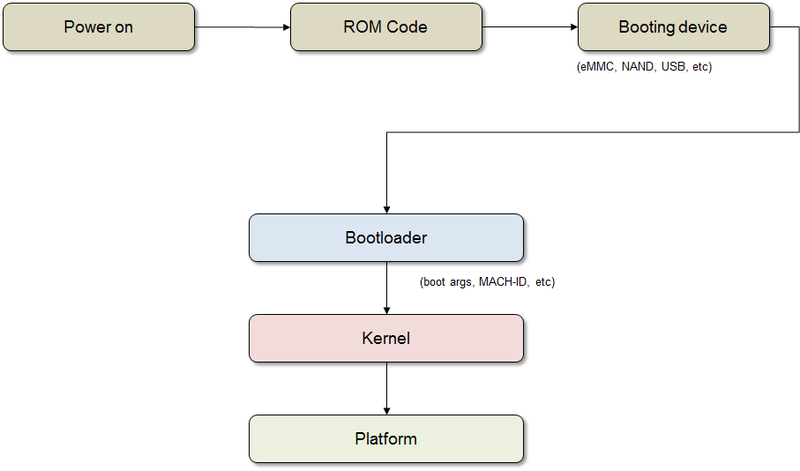
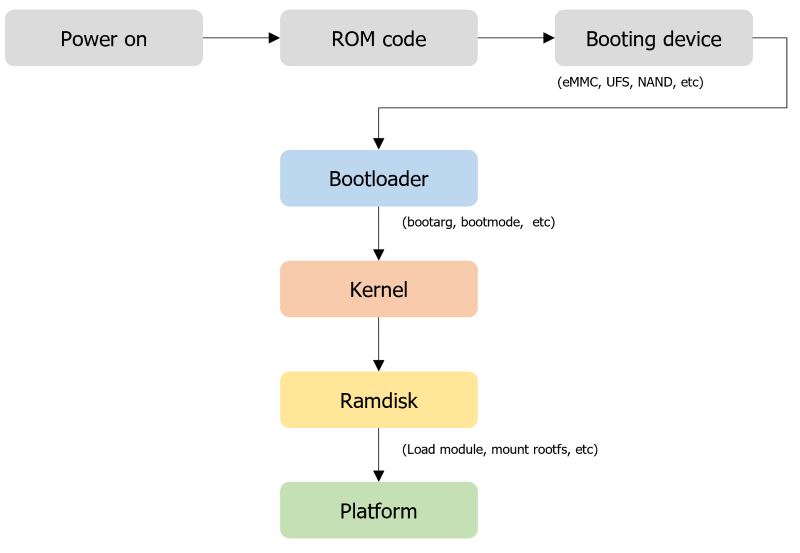
Update kernel porting guidance
Update kernel porting guidance.
- Remove invalid infomrations
- Update Figure pictures.

Changed region(s): [[0.3125, 0.2378, 1.0, 1.0], [0.0, 0.0, 1.0, 0.2081]]

diff --git a/docs/platform/porting/kernel.md b/docs/platform/porting/kernel.md
@@ -94,7 +94,7 @@ This section provides a brief overview of the typical booting sequence, starting
 
 ![Tizen bootup sequence](media/800px-boot-1.png)
 
-The Tizen bootup process is same as any other Linux kernel. Make sure that the correct machine ID and the boot arguments are passed from the boot loader.
+The Tizen bootup process is same as any other Linux kernel. Make sure that the correct device-tree and the boot arguments are passed from the boot loader.
 
 After mounting the initial RAM disk image, `initramfs` hands over control to `systemd` as the Tizen platform system manager daemon. From this point, `systemd` is responsible for probing all remaining hardware, mounting all necessary file systems, and spawning all configured services. The system bootup process is split up into discrete steps. To synchronize points during start-up, target units (files whose names end in `.target`) are used for grouping units. The bootup process is highly parallelized in each target so that the order in which specific target units are reached is not determined. The `system-plugin-slp` is an OAL plugin for configuration settings, such as the mount point (`/etc/fstab`).
 
@@ -112,10 +112,6 @@ The following figure shows the early boot sequence after starting the kernel.
 
   Special target unit for basic bootup. At this point, all necessary initialization for general purpose daemons, such as mount points, sockets, timers, and path units, is completed. Tizen-specific services (such as `vconf-setup` and `tizen-debug-level`) are also executed.
 
-- `bootmode.target`
-
-  Special target unit for selecting the boot mode. If the kernel boot parameter (`/proc/cmdline`) has the `charger_detect_boot` option passed by a boot loader, such as `uboot`, the platform boots up in charging mode. In this mode, the system enters the low power mode and charges the battery. If the `charger_detect_boot` option is not included as a kernel boot parameter, a normal boot is started.
-
 The following figure shows the overview of normal booting sequence in Tizen platform.
 
 **Figure: Tizen platform boot sequence**
@@ -124,11 +120,11 @@ The following figure shows the overview of normal booting sequence in Tizen plat
 
 - `multi-user.target`
 
-  Special target unit for setting up a multi-user system with non-graphical support. On the Tizen platform, this target is used for launching platform infrastructure daemons, such as `dbus` (system session), power manager, GPS manager, telephony daemon, WRT (Web Run Time) security daemon, and the media server. Some `systemd`-related daemons (such as `systemd-logind`) are also started in this phase.
+  Special target unit for setting up a multi-user system with non-graphical support. The Tizen platform uses the `systemd` user session for App privilege daemons. On the Tizen platform, this target is used for launching platform infrastructure daemons, such as `dbus` (system session), power manager, GPS manager, telephony daemon, WRT (Web Run Time) security daemon, and the media server. Some `systemd`-related daemons (such as `systemd-logind`) are also started in this phase.
 
 - `graphical.target`
 
-  Special target unit for setting up a graphical environment. Some important daemons (such as the access control and OMA DS agent servers) that must have root permission are launched at this point. The Tizen platform uses the `systemd` user session for App privilege daemons. Some daemons related to the graphics system, such as Enlightenment (window manager), are launched with the App privilege in this phase. The Tizen platform has its special target for middleware and mobile service: `tizen-middleware.target` starts the platform service daemons, such as calendar, contacts, email, message, sound, and download provider. `tizen-mobile-session.target` starts some service daemons related with the mobile session.
+  Special target unit for setting up a graphical environment. Some important daemons (such as the access control and etc) that must have root permission are launched at this point.  Some daemons related to the graphics system, such as Enlightenment (window manager), are launched with the App privilege in this phase.
 
 ## BSP customization
 
@@ -177,11 +173,17 @@ If you want to use `initramfs`, you can use these configurations:
 - `CONFIG_INITRAMFS_ROOT_GID`
 - `CONFIG_INITRAMFS_COMPRESSION_NONE/GZIP/BZIP2/LZNA/LZO`
 
+To use Tizen Platform, Kernel has to enable some configurations. Refer to tizen-kernel-configs git repository.
+
+```
+git clone git://review.tizen.org/git/platform/kernel/tizen-kernel-configs -b tizen
+```
+
 ## Tizen file system
 
 ### Virtual file system (VFS)
 
-The virtual file system (VFS) is an abstraction layer on top of a physical file system (such as ext2, jfs, and ext4). The VFS provides a switching layer between the SCI (System Call Interface) and the file systems supported by the kernel, as shown in the following figure.
+The virtual file system (VFS) is an abstraction layer on top of a physical file system (such as ext4, erofs, and f2fs). The VFS provides a switching layer between the SCI (System Call Interface) and the file systems supported by the kernel, as shown in the following figure.
 
 **Figure: Tizen file system**
 
@@ -199,27 +201,20 @@ The following description is an example of the Tizen partition layout. The produ
 
 ![Tizen partition layout](media/800px-partitionlayout.png)
 
-The `boot` partition is mounted in the `/boot` directory of `rootfs`. Here `s-boot`, `u-boot`, and the kernel image are saved as a file format, provided as `system.tar`.
+The `boot` partition is mounted in the `/boot` directory of `rootfs` or detected from the eerpom. Here `u-boot`, and the kernel image are saved as a file format, provided as `BOOT.tar`. Depending on booting mode, one of postfix `_a` partitions or postfix `_b` partitions are used.
 
-1. The CSA (Configuration Saved Area) partition is for non-volatile data, such as the calibration value of the modem.
-2. The boot partition includes the kernel image, boot loader image, and modem image. Additionally, it can have device driver modules.
+1. The boot partition includes the kernel image, boot loader image, and modem image. Additionally, it can have device driver modules.
+2. module partition is for kernel modules (Out-of-modules will be loaded by ramdisk.)
 3. Third partition is reserved for the future.
-4. The CSC (Customer Software Configuration) partition is mounted in the `/mnt/csc` directory. It can store the customer's software configuration, such as the default language and time zone.
-5. The `platform` partition is mounted on the root directory. It contains fundamental frameworks for Tizen and some general utility for Linux. It can be provided as a `platform.img` file.
-6. The `data` partition is mounted in the `/opt` directory and it includes applications, libraries of applications, and the platform database. It can be provided as a `data.img` file.
-7. The UMS (USB Mass Storage) partition is mounted in the `/opt/media` directory and it includes default (media) contents. It can be provided as `ums.img`.
+4. The `rootfs` partition is mounted on the root directory. It contains fundamental frameworks for Tizen and some general utility for Linux. It can be provided as a `rootfs.img` file.
+5. The `system-data` partition is mounted in the `/opt` directory and it includes applications, libraries of applications, and the platform database. It can be provided as a `system-data.img` file.
+6. The `user` partition is mounted in the `/opt/usr` directory and it includes data relevant user data. It can be provided as `user.img`.
 
-Each image file, `platform.img`, `data.img`, and `ums.img` can be zipped for downloading, for example, `<IMAGE_NAME>.tar.gz`.
-
-Each partition has the hierarchy illustrated in the following figure.
-
-**Figure: Tizen file system hierarchy**
-
-![Tizen file system hierarchy](media/800px-filesystemhierarchy.png)
+Each image file, `rootfs.img`, `system-data.img`, and `uer.img` can be zipped for downloading, for example, `<HEADED/HEADLESS>.tar.gz`.
 
 #### Supported file systems
 
-Tizen supports the Extended 4 (ext4) file system. The Tizen kernel has to be compiled to enable support for other file systems, such as JFS, XFS, BTRFS, and ReiserFS.
+Tizen supports the Extended 4 (ext4) file system. The Tizen kernel has to be compiled to enable support for other file systems, such as F2FS, BTRFS, and EROFS.
 
 The Extended 4 (ext4) file system is configured as a default file system for Tizen.
 
@@ -231,6 +226,8 @@ The following ext4 configuration options can be enabled in the kernel configurat
 - `CONFIG_EXT4_FS_XATTR=y`
 - `CONFIG_EXT4_USE_FOR_EXT23=y`
 - `CONFIG_EXT4_FS_SECURITY=y`
+
+Refer to [Kernel configurations](kernel.md#kernel-configurations)
 
 ### MMC/SD/SDIO
 
@@ -254,17 +251,13 @@ The MMC subsystem code structure in the kernel is located at `/driver/mmc` and d
 - Protocol stack for MMC, SD, SDIO located at `/driver/mmc/core/`
 - Host controller driver located at `/driver/mmc/host/`
 
-#### Hotplug MMC event handling
-
-Based on the hotplug event handling, a notification is passed to `deviced` for device status changes. It detects, mounts, and monitors the status of the SD card.
-
 #### Reference
 
 The SDHCI controller is supported in the MMC/SD/SDIO interface. The mobile storage host controller is only supported in the MMC interface.
 
 - **Kernel configuration for MMC Interface**
 
-  `CONFIG_MMC_BLOCK`, `CONFIG_MMC`, `CONFIG_MSHCI` (for Mobile Storage Interface enable)
+  `CONFIG_MMC_BLOCK`, `CONFIG_MMC`, `CONFIG_MMC_SDHCI`, `CONFIG_MMC_DW` (for Mobile Storage Interface enable)
   `sys interface: /dev/mmcblk0pX`
 
 - **Kernel configuration for SD/SDIO Interface**
@@ -272,6 +265,7 @@ The SDHCI controller is supported in the MMC/SD/SDIO interface. The mobile stora
   `CONFIG_MMC_BLOCK`, `CONFIG_MMC`
   `CONFIG_MMC_SDHCI` (for SDHCI host Interface enable)
   `CONFIG_MMC_SDHCI_S3C` (for Samsung SoC)
+  `CONFIG_MMC_DW` (for DesignWare Host Controler Interface enable)
   `sys interface: /dev/mmcblk1pX`
 
 The `X` denotes the MMC partition number. Details of the partition mount point for Tizen are covered under [Tizen Partition Layout](#tizen-partition-layout).
